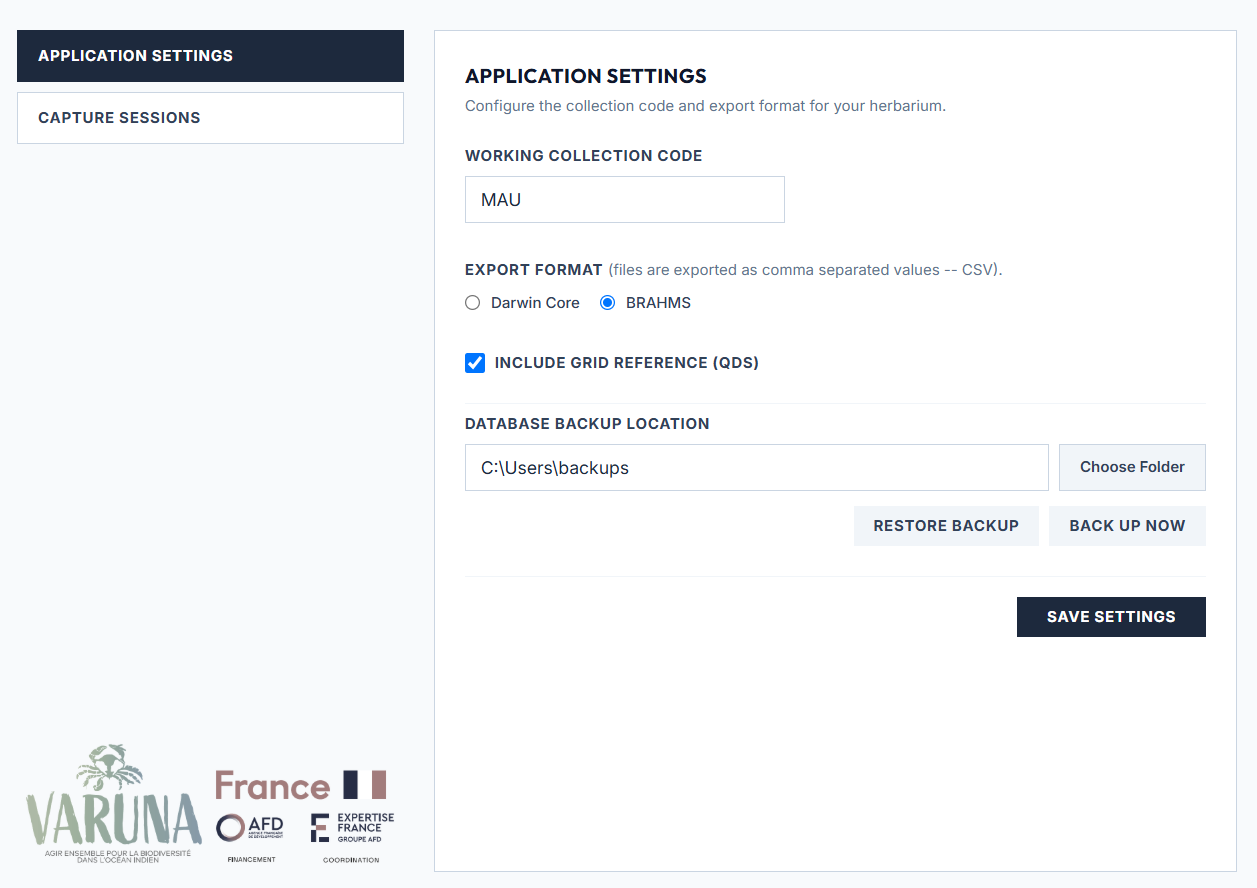
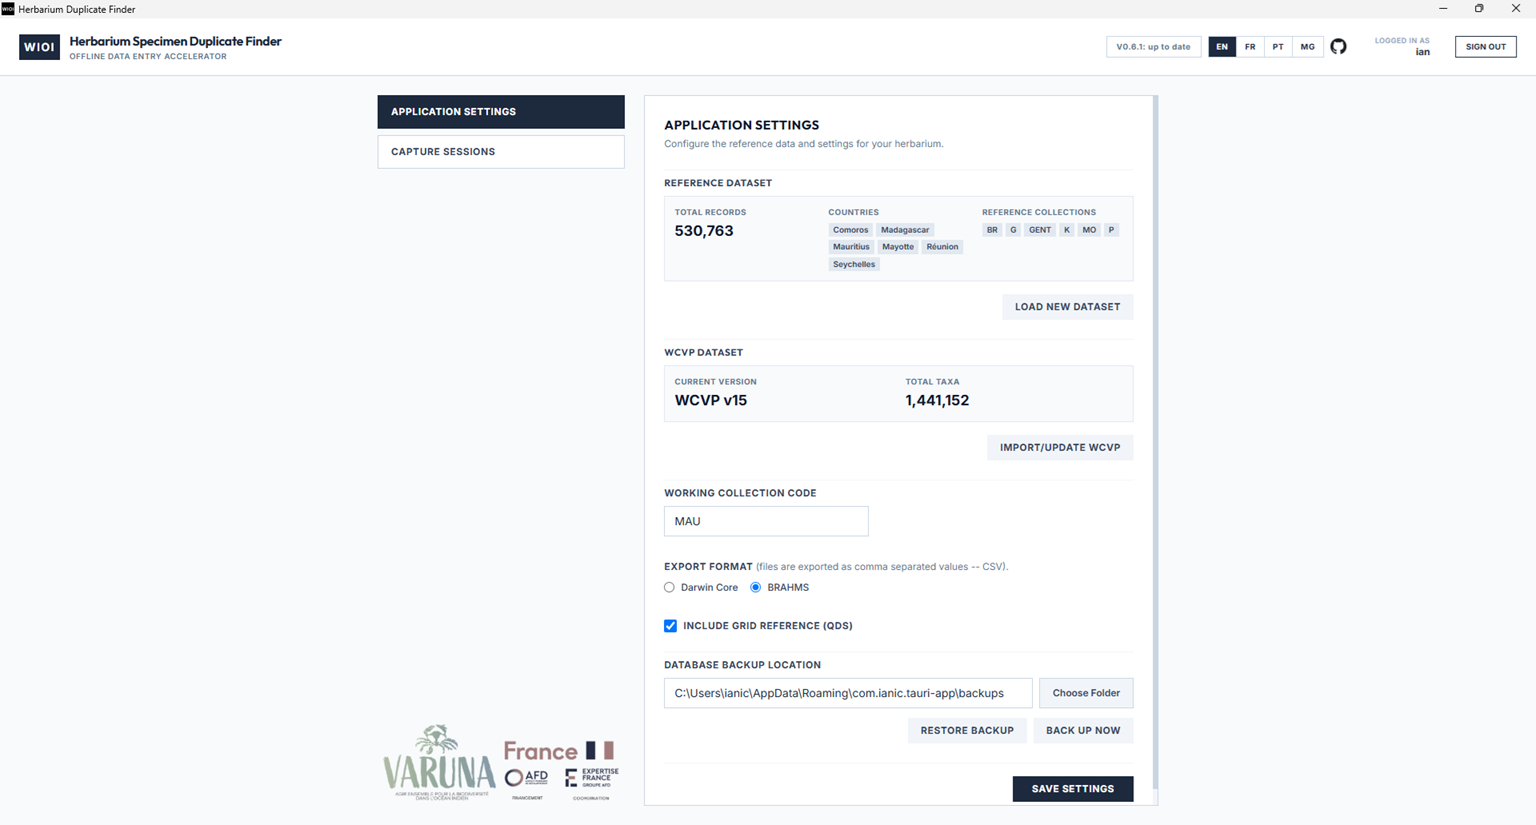
added reference dataset update details

diff --git a/src/content/docs/mg/docs/settings.md b/src/content/docs/mg/docs/settings.md
@@ -3,15 +3,29 @@ title: Fametrahana ny Fampiharana
 description: Hamarino ny kaodin'ny fitambaram-bokatra, ny famoahana lahatahiry, ary ny toerana fitahirizana ny tahiry data.
 ---
 
-Ny pejin'ny fametrahana dia ahafahanao manitsy ny safidy mahazatra eo an-toerana, ny fomba famoahana lahatahiry, ary ny safidin'ny backup an'ny tahirin-kevitra. Ireo fametrahana ireo dia tehirizina eo an-toerana.
+Ny pejin'ny fametrahana dia ahafahanao mahita ny antsipirian'ny tahirin-kevitra fototra ampiasainao ankehitriny, ary manitsy ny safidy mahazatra eo an-toerana, ny fomba famoahana lahatahiry, ary ny safidin'ny backup an'ny tahirin-kevitra.
 
-To access the settings:
+Raha te hiditra amin'ny fametrahana:
 1. Midira amin'ny fampiharana.
 2. Eo amin'ny tabilao, tsindrio ny bokotra **Fametrahana ny Fampiharana** ao amin'ny tontonana fitetezana ankavia.
 
 ![Tontonana Fametrahana ny Fampiharana](/wioi-duplicate-finder-docs/settings-tab.png)
 
 ---
+
+## Tahirin-kevitra fototra
+
+### Firaketana dika mitovy
+
+Ny Fikarohana Dika Mitovy dia mampiasa tahirin-kevitra fototra misy firaketana santionan-java-maniry voaomana avy amin'ny GBIF, ho an'ny faritra sy tahirin-java-maniry fototra niaviana manokana. Ohatra, raha fantatrao fa manana dika mitovy maro any amin'ny Kew ny fitambaran-tsantionanao, dia ny tahirin-kevitra GBIF avy any amin'ny Kew ho an'ny firenenao na ny faritra misy anao no hampiasainao.
+
+Ireo tahirin-kevitra azo ampiasaina dia voatanisa ao amin'ny pejy [Fametrahana](./installation). Raha mila tahirin-kevitra ho an'ny faritra na firenenao ianao, dia mamorona olana (issue) ao amin'ny tahiry GitHub an'ity fitaovana ity azafady. Mitaky asa be ny fanomanana tahirin-kevitra satria tsy tonga lafatra ny angon-drakitra avy amin'ny GBIF (mila ampanarahina fenitra ny anaran'ny mpamory sy ny kaodin'ny tahirin-java-maniry, ohatra). Ny fandaharana (scripts) ho an'ny fanomanana ny tahirin-kevitra dia hita ao amin'ny tahiry GitHub ihany koa raha te hanomana izany ianao.
+
+Raha vantany vao manana tahirin-kevitra vonona hafarana ianao, dia azonao atao ny manindry ny bokotra Hampiditra Tahirin-kevitra Vaovao (Load New Dataset), ary hisy safidy hisafidianana ny fisie hafarana. Mariho fa ny fanafarana dia hamafa ireo firaketana fototra efa misy ao amin'ny tahirin-kevitrao ka hanolo azy ireo amin'ny angon-drakitra vaovao. Haharitra minitra vitsy ny fanafarana, ary aorian'izay dia azonao ampiasaina ilay tahirin-kevitra vaovao amin'ny fitahirizana ny santionanao.
+
+### Firaketana ara-tsokajy WCVP
+
+Ny Fikarohana Dika Mitovy dia mampiasa ny World Checklist of Vascular Plants ho toy ny tahiry ara-tsokajy fototra (taxon backbone). Havaozina indroa isan-taona ny WCVP ary ny dikan-teny farany indrindra dia azo [alaina amin'ity rohy ity](https://sftp.kew.org/pub/data-repositories/WCVP/). Raha te hanavao ny tahirin-kevitra WCVP ao amin'ny fampiharanao ianao, alao ny fisie farany amin'io rohy io (`wcvp.zip`), vahao ny ao anatiny (unzip), ary avy eo ao amin'ny Fikarohana Dika Mitovy, tsindrio ny bokotra Hampiditra/Hanavao ny WCVP (Import/Update WCVP), ary fidio ny fisie `wcvp_names.csv`. Ny fampiharana dia hanavao ny angon-drakitra WCVP ary afaka manohy miasa ianao avy eo.
 
 ## Ny Fametrahana
 

diff --git a/src/content/docs/fr/docs/settings.md b/src/content/docs/fr/docs/settings.md
@@ -3,7 +3,7 @@ title: Paramètres de l'application
 description: Configurez le code de collection, les formats d'exportation et les emplacements de sauvegarde de la base de données.
 ---
 
-L'onglet des paramètres vous permet de configurer vos valeurs par défaut de travail locales, les formats d'exportation et vos préférences de sauvegarde de la base de données. Ces paramètres sont conservés localement.
+L'onglet des paramètres vous permet de voir les détails de votre base de données de référence actuelle et de configurer vos valeurs par défaut de travail locales, les formats d'exportation et vos préférences de sauvegarde de la base de données.
 
 Pour accéder aux paramètres :
 1. Connectez-vous à l'application.
@@ -12,6 +12,20 @@ Pour accéder aux paramètres :
 ![Panneau des paramètres de l'application](/wioi-duplicate-finder-docs/settings-tab.png)
 
 ---
+
+## Jeux de données de référence
+
+### Enregistrements de doublons
+
+Le Duplicate Finder utilise un jeu de données de référence d'enregistrements de spécimens préparé à partir du GBIF, pour une région et des herbiers sources particuliers. Par exemple, si vous savez que votre collection possède de nombreux doublons à Kew, vous travailleriez avec des données GBIF de Kew pour votre pays ou région. 
+
+Les jeux de données disponibles sont répertoriés sur la page [Installation](./installation). Si vous souhaitez obtenir un jeu de données pour votre région/pays, veuillez signaler un problème sur le dépôt GitHub de l'outil. La préparation d'un jeu de données demande beaucoup de travail car les données du GBIF ne sont pas parfaites (les collecteurs et les codes de collection doivent être standardisés, par exemple). Les scripts de préparation des jeux de données sont également disponibles sur le dépôt GitHub si vous souhaitez préparer un jeu de données vous-même. 
+
+Une fois que vous avez un jeu de données prêt à être importé, vous pouvez cliquer sur le bouton Charger un nouveau jeu de données (Load New Dataset), et vous aurez la possibilité de sélectionner le fichier à importer. Notez que l'importation supprimera les enregistrements de référence existants de votre base de données et les remplacera par les nouvelles données. L'importation prendra quelques minutes, puis vous pourrez utiliser le nouveau jeu de données pour saisir vos spécimens. 
+
+### Enregistrements taxonomiques du WCVP
+
+Le Duplicate Finder utilise le World Checklist of Vascular Plants (WCVP) comme base taxonomique. Le WCVP est mis à jour deux fois par an et la dernière version est disponible en [téléchargement à ce lien](https://sftp.kew.org/pub/data-repositories/WCVP/). Si vous souhaitez mettre à jour le jeu de données WCVP dans votre application, téléchargez le dernier fichier à partir de ce lien (`wcvp.zip`), décompressez le contenu, puis, dans le Duplicate Finder, cliquez sur le bouton Importer/Mettre à jour le WCVP (Import/Update WCVP) et sélectionnez le fichier `wcvp_names.csv`. L'application mettra à jour les données WCVP et vous pourrez ensuite continuer à travailler.
 
 ## Paramètres de configuration
 

diff --git a/src/content/docs/pt/docs/settings.md b/src/content/docs/pt/docs/settings.md
@@ -3,7 +3,7 @@ title: Configurações do Aplicativo
 description: Configure o código da coleção, formatos de exportação e locais de backup do banco de dados.
 ---
 
-A aba de configurações permite que você configure seus padrões de trabalho locais, formatos de exportação e preferências de backup do banco de dados. Essas configurações são salvas localmente.
+A aba de configurações permite que você veja os detalhes do seu banco de dados de referência atual e configure seus padrões de trabalho locais, formatos de exportação e preferências de backup do banco de dados.
 
 Para acessar as configurações:
 1. Faça login no aplicativo.
@@ -12,6 +12,20 @@ Para acessar as configurações:
 ![Painel de Configurações do Aplicativo](/wioi-duplicate-finder-docs/settings-tab.png)
 
 ---
+
+## Conjuntos de dados de referência
+
+### Registros de duplicatas
+
+O Localizador de Duplicatas utiliza um conjunto de dados de referência de registros de espécimes preparados a partir do GBIF, para uma região específica e herbários de origem. Por exemplo, se você sabe que sua coleção possui muitas duplicatas no Kew, você trabalharia com dados do GBIF do Kew para o seu país ou região.
+
+Os conjuntos de dados disponíveis estão listados na página de [Instalação](./installation). Se desejar um conjunto de dados para sua região/país, registre uma solicitação (issue) no repositório do GitHub da ferramenta. Preparar um conjunto de dados dá bastante trabalho porque os dados do GBIF não são perfeitos (por exemplo, coletores e códigos de coleção precisam ser padronizados). Os scripts para preparação de conjuntos de dados também estão disponíveis no repositório do GitHub se você mesmo quiser preparar um conjunto de dados.
+
+Assim que tiver um conjunto de dados pronto para importação, você poderá clicar no botão Carregar Novo Conjunto de Dados (Load New Dataset) e terá a opção de selecionar o arquivo a ser importado. Observe que a importação removerá os registros de referência existentes do seu banco de dados e os substituirá pelos novos dados. A importação levará alguns minutos e, depois disso, você poderá usar o novo conjunto de dados para capturar seus espécimes.
+
+### Registros taxonômicos do WCVP
+
+O Localizador de Duplicatas utiliza o World Checklist of Vascular Plants (WCVP) como sua base taxonômica. O WCVP é atualizado duas vezes por ano e a versão mais recente está disponível para [download neste link](https://sftp.kew.org/pub/data-repositories/WCVP/). Se você deseja atualizar o conjunto de dados do WCVP no seu aplicativo, baixe o arquivo mais recente desse link (`wcvp.zip`), descompacte o conteúdo e, em seguida, no Localizador de Duplicatas, clique no botão Importar/Atualizar WCVP (Import/Update WCVP) e selecione o arquivo `wcvp_names.csv`. O aplicativo atualizará os dados do WCVP e então você poderá continuar trabalhando.
 
 ## Configurações
 

diff --git a/src/content/docs/en/docs/settings.md b/src/content/docs/en/docs/settings.md
@@ -3,7 +3,7 @@ title: Application Settings
 description: Configure the collection code, export formats, and database backup locations.
 ---
 
-The settings tab allows you to configure your local working defaults, export formats, and database backup preferences. These settings are persisted locally.
+The settings tab allows you to see your current reference database details and configure your local working defaults, export formats, and database backup preferences.
 
 To access the settings:
 1. Log in to the application.
@@ -12,6 +12,20 @@ To access the settings:
 ![Application Settings Panel](/wioi-duplicate-finder-docs/settings-tab.png)
 
 ---
+
+## Reference datasets
+
+### Duplicate records
+
+The Duplicate Finder makes use of a reference dataset of specimen records prepared from GBIF, for a particular region and source herbaria. For example, if you know that your collection has many duplicates in Kew, you would work with GBIF data from Kew for your country or region. 
+
+Available datasets are listed on the [Installation](./installation) page. If you would like a dataset for your region/country, please log an issue on the Github repo for the tool. It takes quite a lot of work to prepare a dataset because GBIF data are no perfect (collectors and collection codes need to be standardized, for example). The scripts for preparing datasets are also available on the Github repo if you would like to prepare a dataset yourself. 
+
+Once you have a dataset ready for import, you can click on the Load New Dataset button, and you will be given the option to select the file to import. Note that the import will remove the existing reference records from your database and replace them with the new data. The import will take a few minutes, and then you can use the new dataset for capturing your specimens. 
+
+### WCVP taxonomic records
+
+The Duplicate Finder makes use of the World Catalog of Vascular Plants as its taxon backbone. The WCVP is updated twice a year and the latest version is available for [download at this link](https://sftp.kew.org/pub/data-repositories/WCVP/). If you want to update the WCVP dataset in your app, download the latest file from that link (`wcvp.zip`), unzip the contents, and then in the Duplicate Finder click the Import/Update WCVP button, and select the `wcvp_names.csv` file. The app will update the WCVP data and then you can continue working. 
 
 ## Configuration Settings
 
